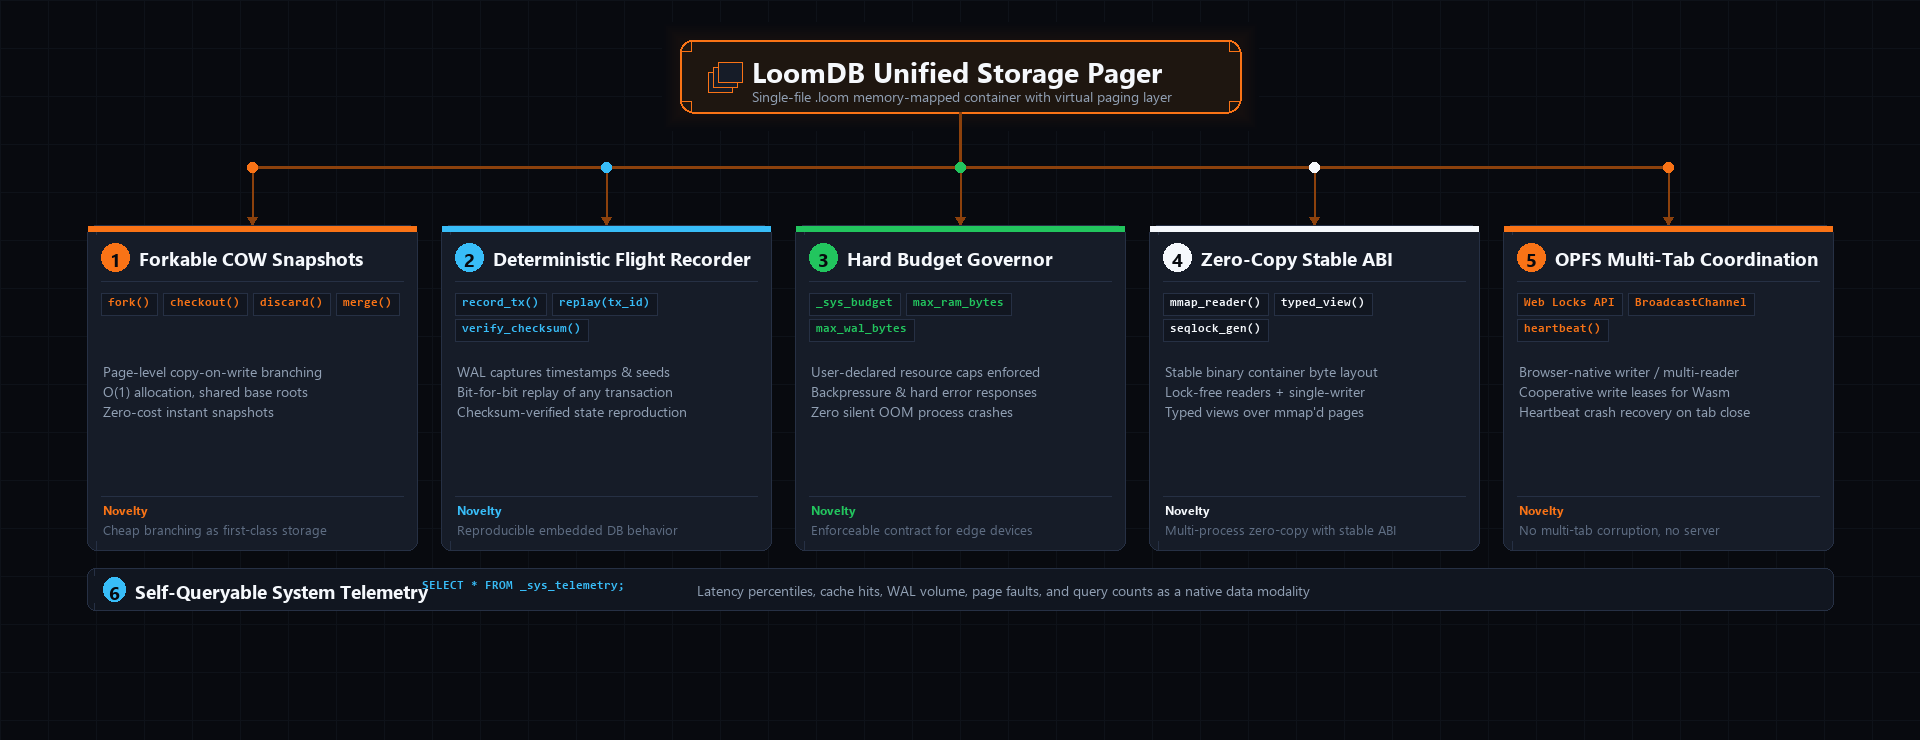
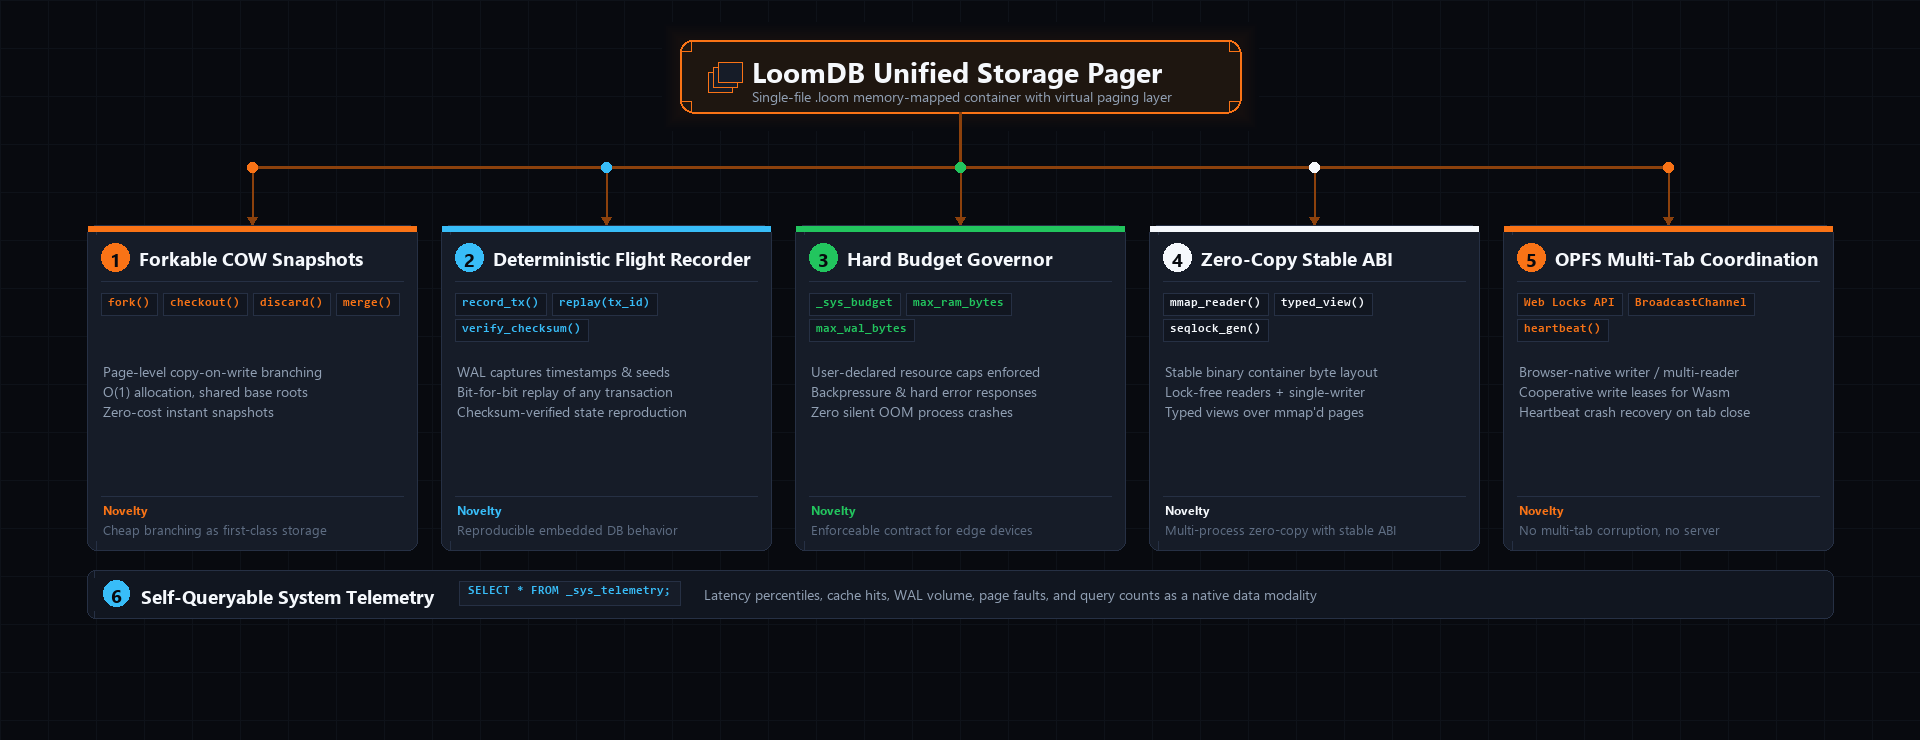
fix(assets): resolve text overlap in architecture diagram telemetry footer

Changed region(s): [[0.0312, 0.777, 0.6875, 0.8392]]

diff --git a/scripts/generate_architecture_diagram.py b/scripts/generate_architecture_diagram.py
@@ -186,19 +186,37 @@ def generate_diagram():
         draw.text((cx+16, ny), "Novelty", font=font_novelty, fill=col)
         draw.text((cx+16, ny+18), cd["novelty"], font=font_novelty_text, fill=MUTED)
 
-    # ─── FOOTER: 6th Primitive ───
-    fy = card_y + card_h + 18
-    fh = 42
+    # ─── FOOTER: 6th Primitive (Cleanly spaced, zero overlaps) ───
+    fy = card_y + card_h + 20
+    fh = 48
     rounded_rect(draw, [start_x, fy, start_x+total_w, fy+fh], 8, fill=SURFACE, outline=BORDER, width=1)
-    draw.ellipse([start_x+16, fy+9, start_x+38, fy+33], fill=CYAN)
-    draw.text((start_x+22, fy+11), "6", font=font_card_title, fill=BG)
-    draw.text((start_x+48, fy+10), "Self-Queryable System Telemetry", font=font_card_title, fill=WHITE)
-    draw.text((start_x+335, fy+12), "SELECT * FROM _sys_telemetry;", font=font_api, fill=CYAN)
-    draw.text((start_x+610, fy+12), "Latency percentiles, cache hits, WAL volume, page faults, and query counts as a native data modality", font=font_card_body, fill=SECONDARY)
+    
+    # Badge 6
+    draw.ellipse([start_x+16, fy+10, start_x+42, fy+36], fill=CYAN)
+    draw.text((start_x+24, fy+12), "6", font=font_card_title, fill=BG)
+    
+    # Title
+    title_text = "Self-Queryable System Telemetry"
+    draw.text((start_x+54, fy+13), title_text, font=font_card_title, fill=WHITE)
+    t_bbox = font_card_title.getbbox(title_text)
+    t_w = t_bbox[2] - t_bbox[0]
+    
+    # API query pill with comfortable margin
+    query_x = start_x + 54 + t_w + 24
+    query_text = "SELECT * FROM _sys_telemetry;"
+    q_bbox = font_api.getbbox(query_text)
+    q_w = (q_bbox[2] - q_bbox[0]) + 18
+    draw.rectangle([query_x, fy+11, query_x+q_w, fy+35], fill=CARD_BG, outline=BORDER, width=1)
+    draw.text((query_x+9, fy+15), query_text, font=font_api, fill=CYAN)
+    
+    # Description with comfortable margin
+    desc_x = query_x + q_w + 24
+    draw.text((desc_x, fy+14), "Latency percentiles, cache hits, WAL volume, page faults, and query counts as a native data modality", font=font_card_body, fill=SECONDARY)
 
     os.makedirs(os.path.dirname(OUTPUT_PATH), exist_ok=True)
     img.save(OUTPUT_PATH, "PNG", optimize=True)
     print(f"Diagram generated: {OUTPUT_PATH} ({WIDTH}x{HEIGHT})")
+
 
 if __name__ == "__main__":
     generate_diagram()
